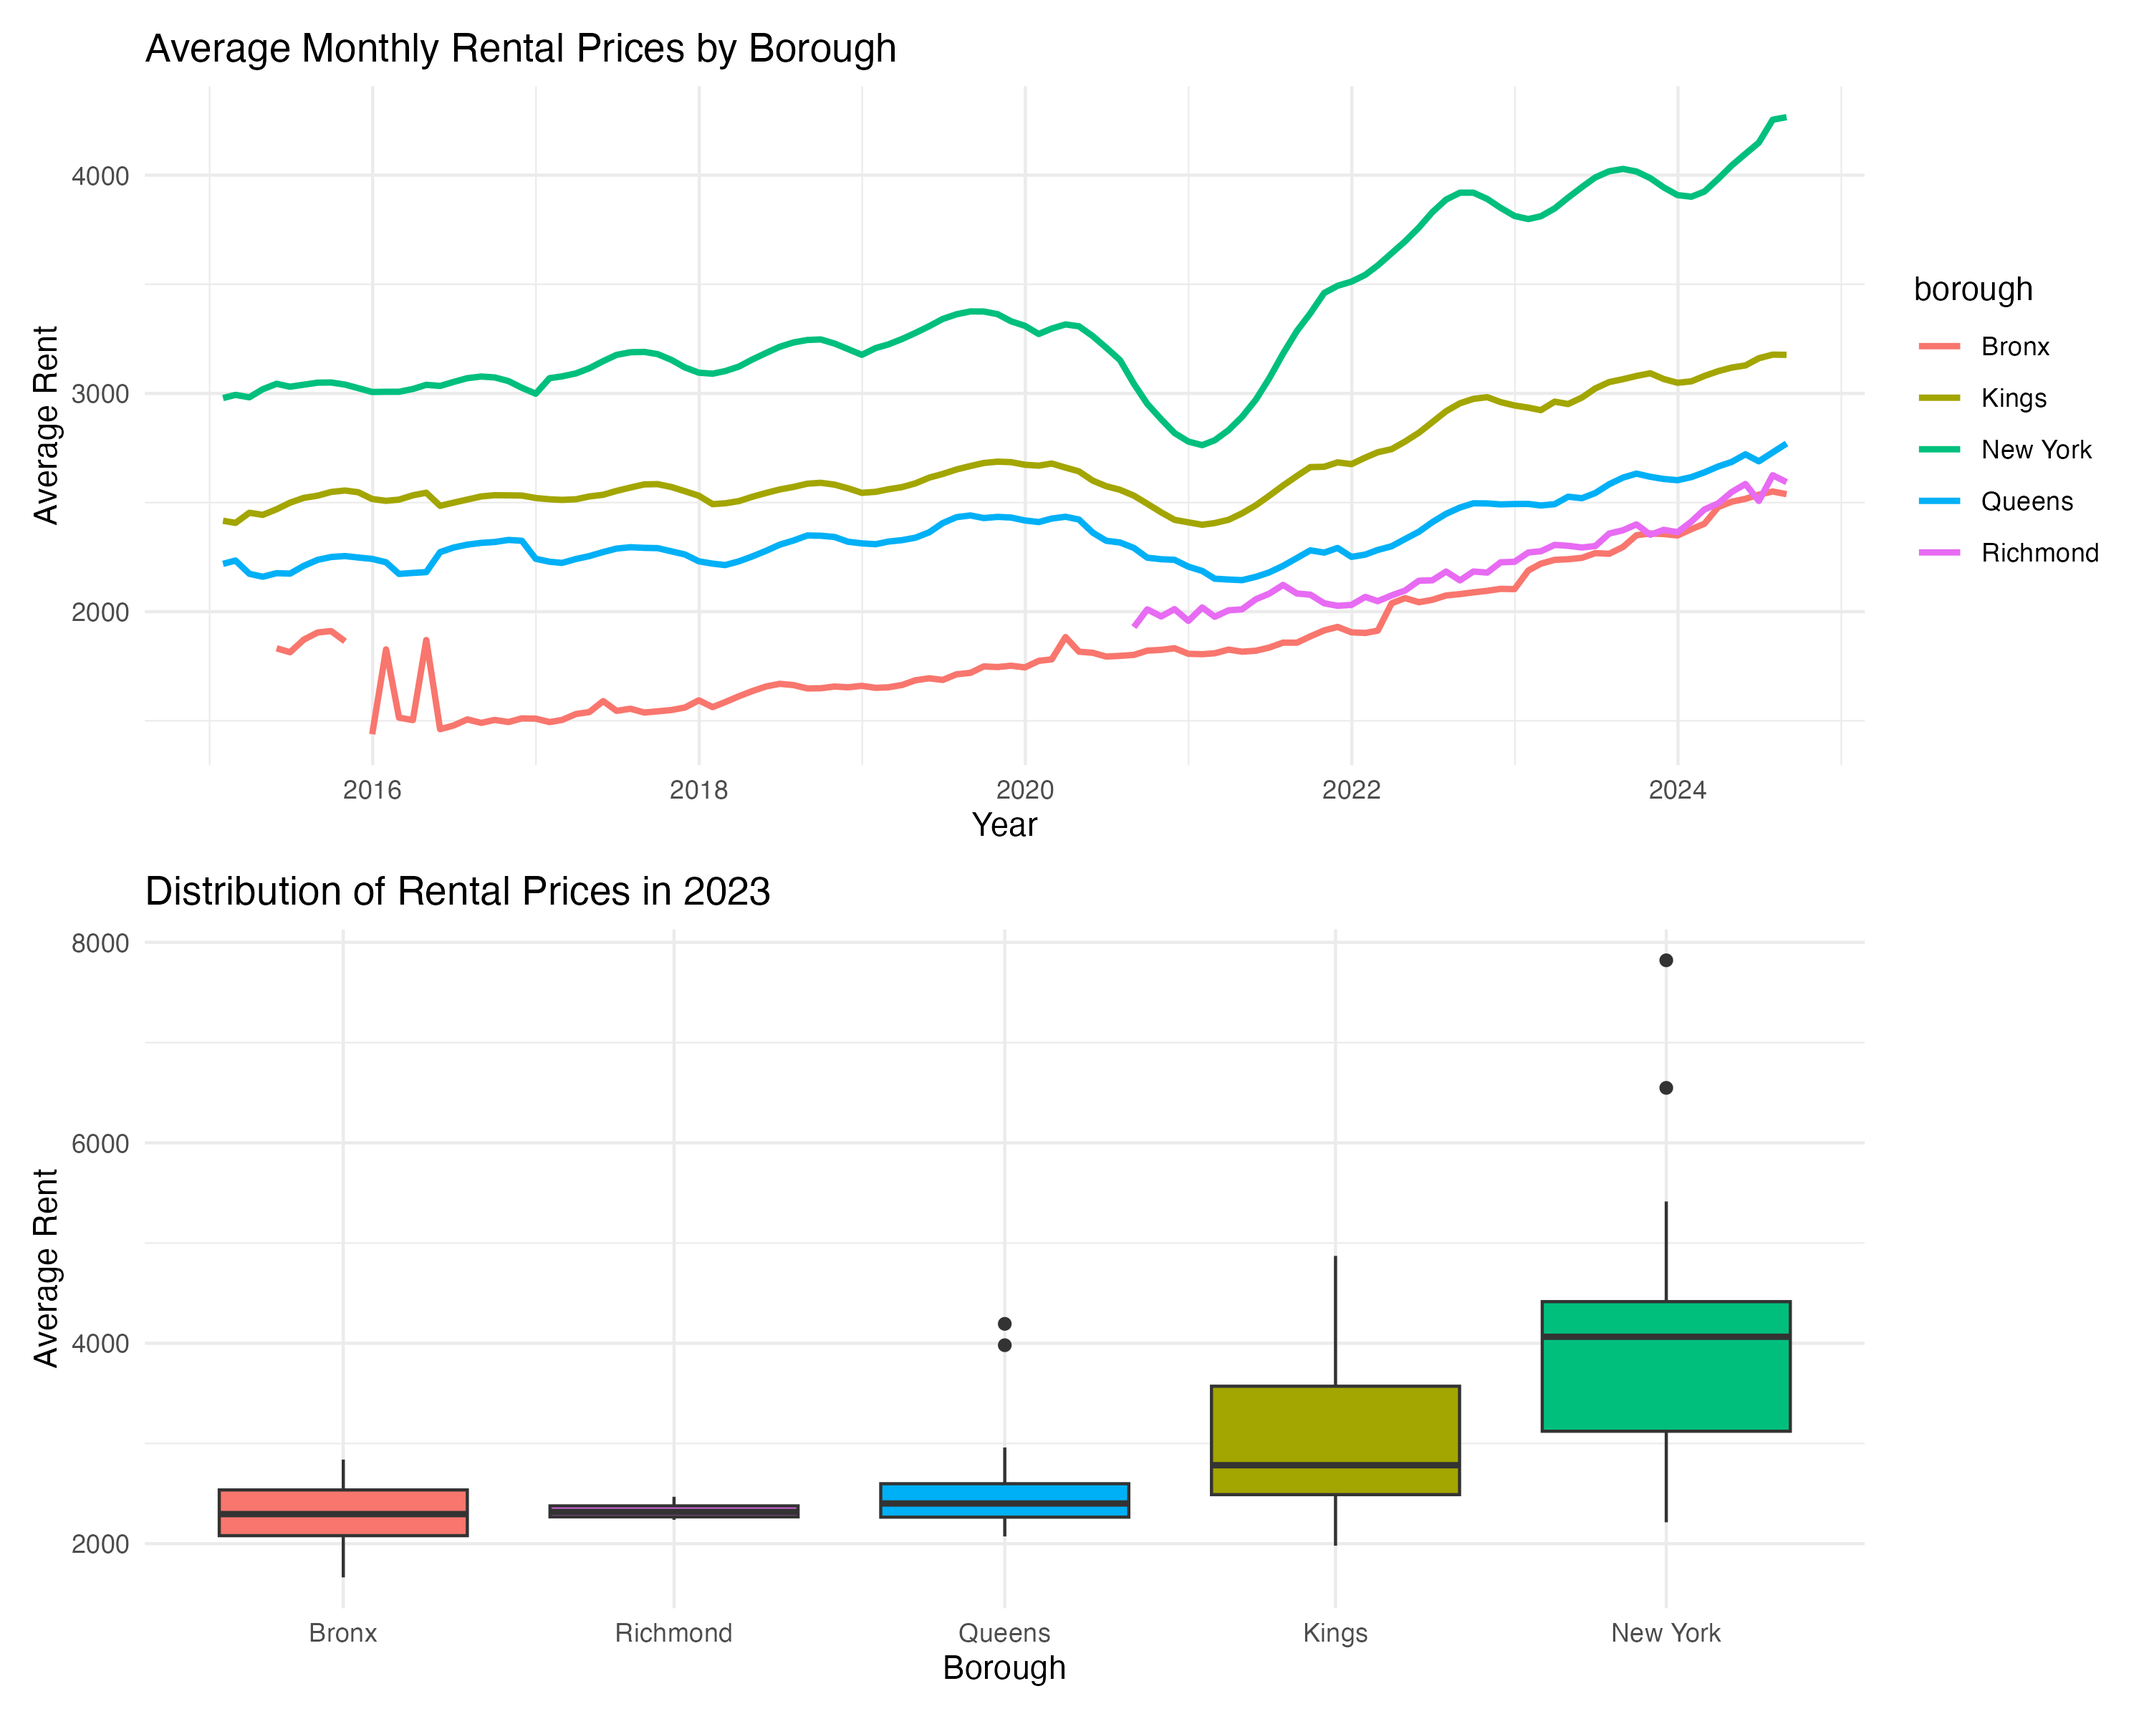
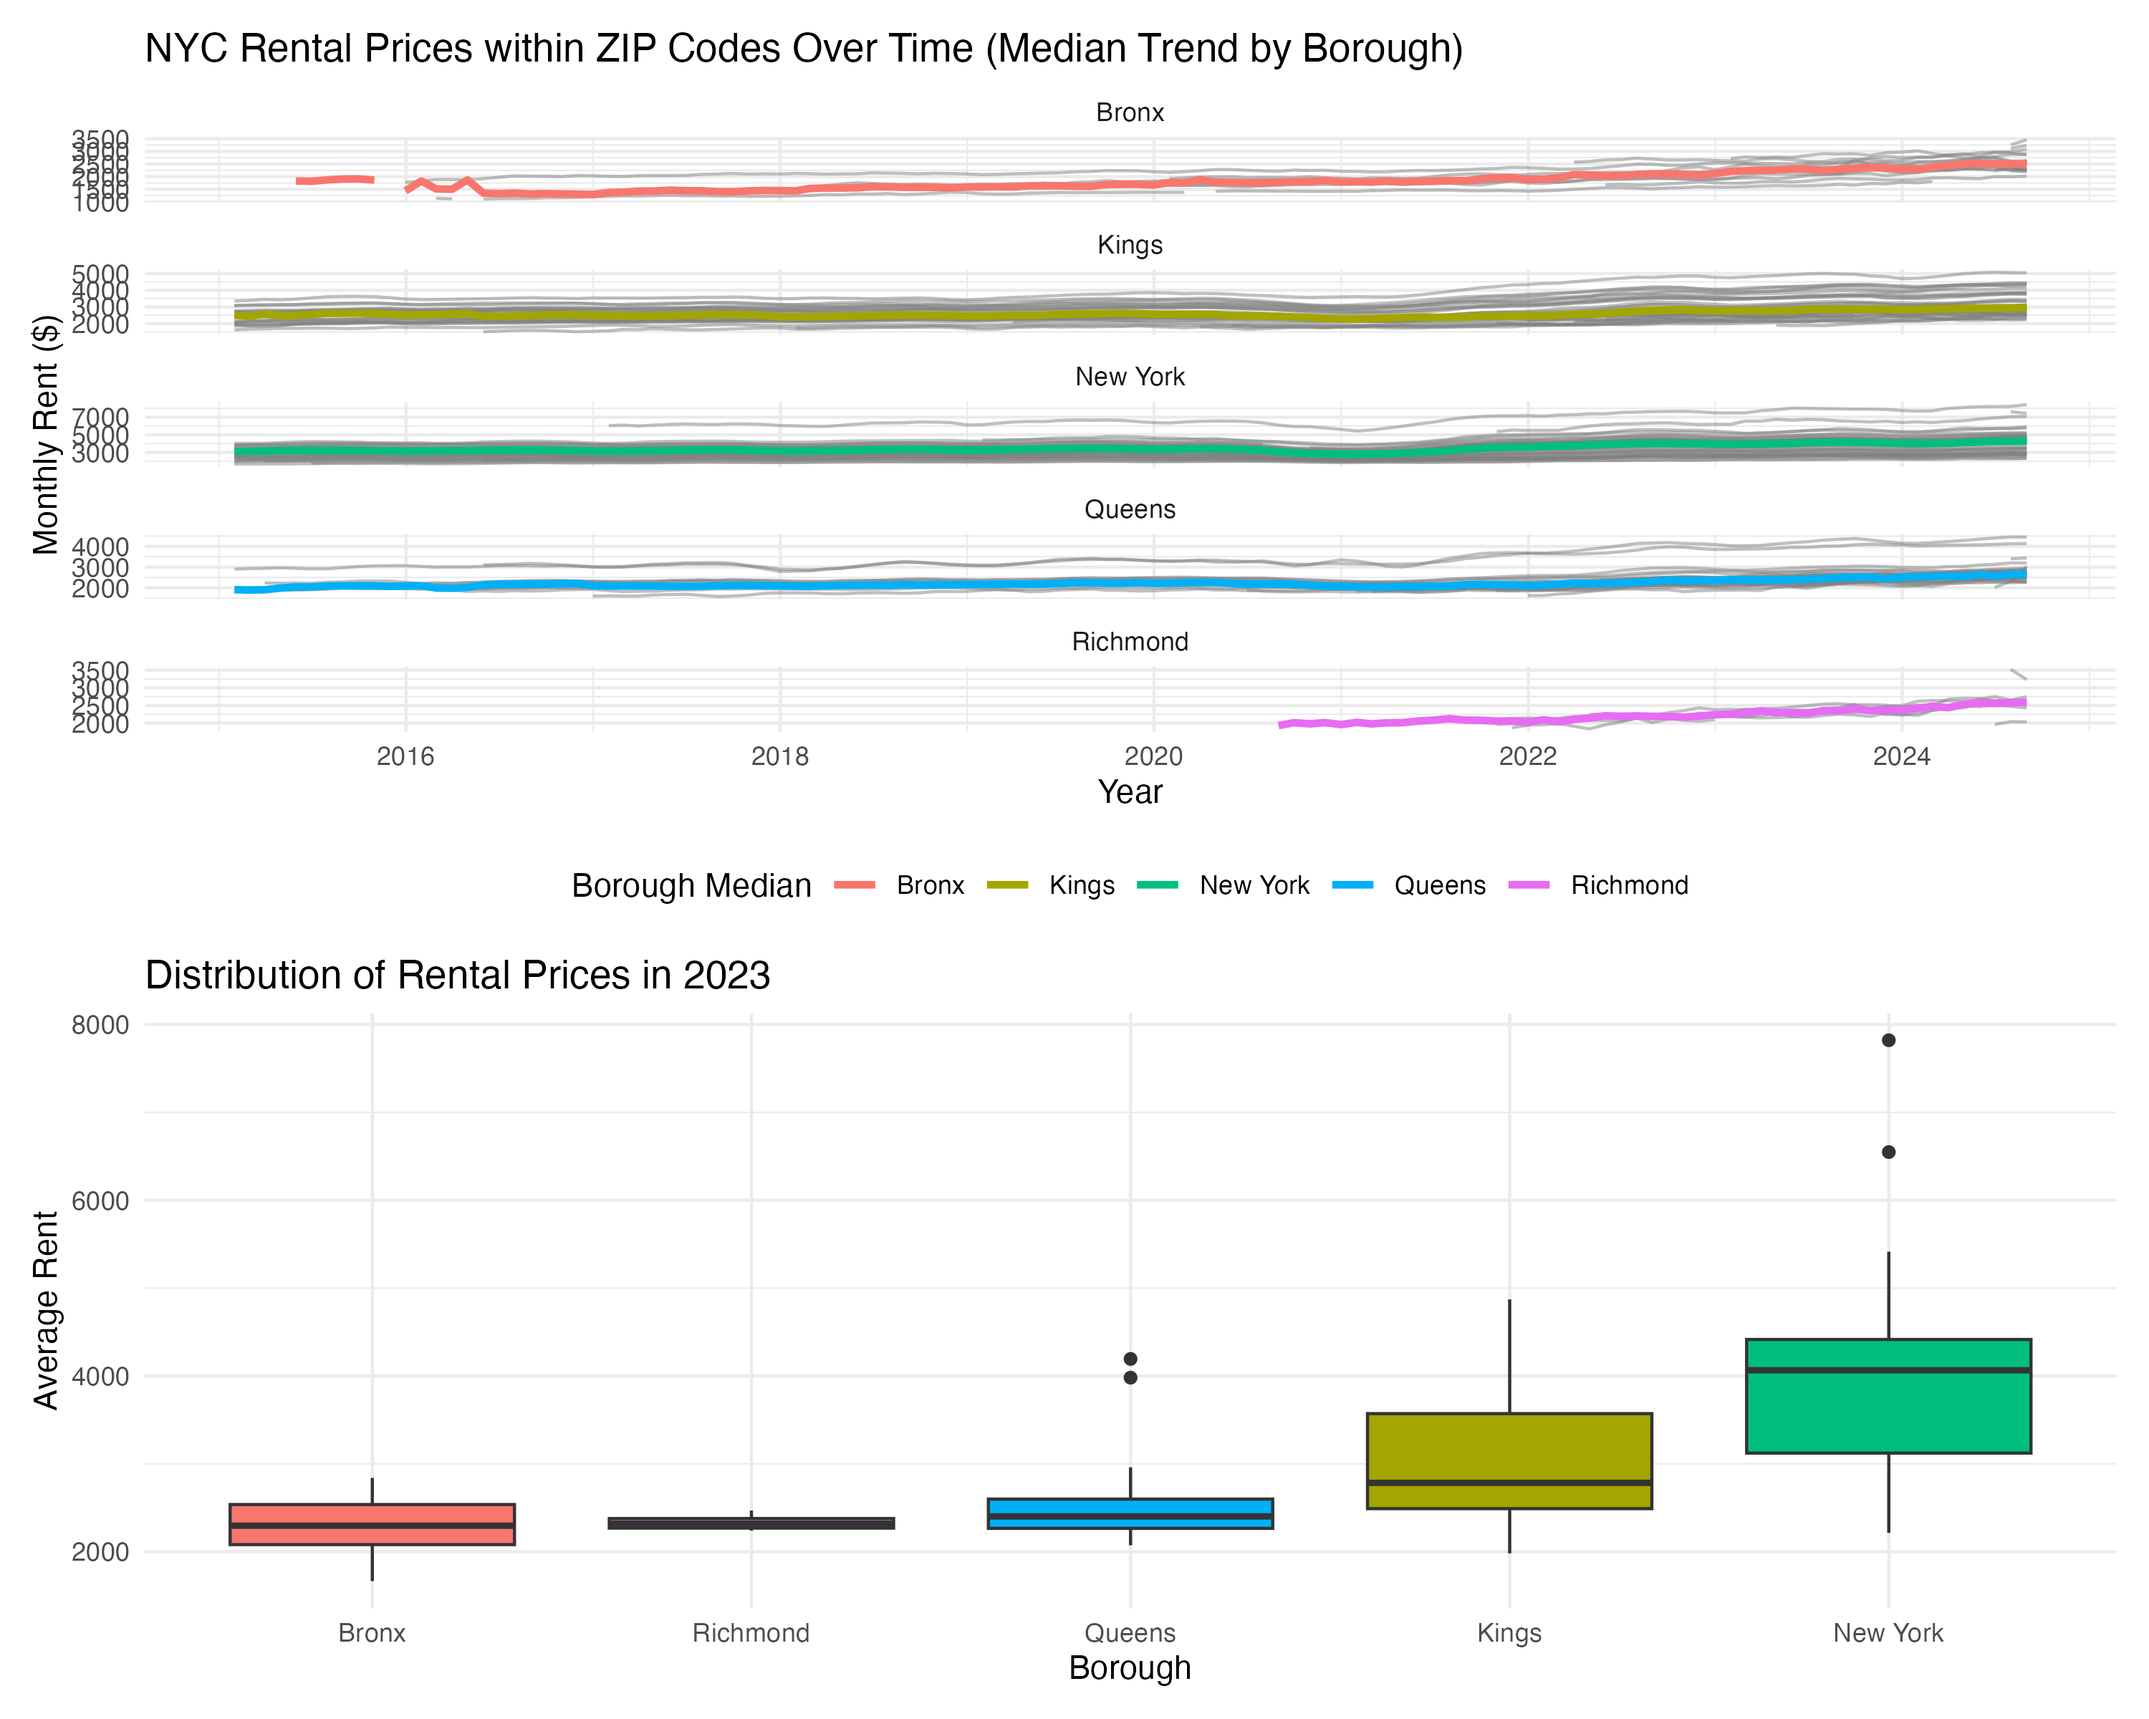
add the comment

diff --git a/p8105_hw3_xm2356.md b/p8105_hw3_xm2356.md
@@ -275,51 +275,66 @@ Beginning in 2022, the market experienced a dramatic surge in rental
 prices across all boroughs. This indicates a strong and rapid recovery,
 with rents quickly surpassing pre-pandemic levels.
 
-## NYC Rental Prices
+## NYC Rental Prices within ZIP Codes Over Time
 
 ``` r
-plot_rent_ts <- zillow_df |>
+borough_median_rent <- zillow_df |>
   group_by(borough, month) |>
-  summarise(avg_rent = mean(rent, na.rm = TRUE), .groups = "drop") |>
-  ggplot(aes(x = month, y = avg_rent, color = borough)) +
-  geom_line(linewidth = 1) +
-  labs(title = "Average Monthly Rental Prices by Borough", x = "Year", y = "Average Rent") +
-  theme_minimal()
+  summarise(
+    median_rent = median(rent, na.rm = TRUE),
+    .groups = "drop"
+  )
+
+plot_rent_ts <- zillow_df |>
+  ggplot(aes(x = month, y = rent)) + 
+  geom_line(aes(group = zip_code), alpha = 0.5, color = "grey50") + 
+  
+
+  geom_line(
+    data = borough_median_rent, 
+    aes(y = median_rent, color = borough, group = borough), 
+    linewidth = 1.2
+  ) +
+
+  facet_wrap(~ borough, scales = "free_y", ncol = 1) + 
+  
+  labs(
+    title = "NYC Rental Prices within ZIP Codes Over Time (Median Trend by Borough)", 
+    x = "Year", 
+    y = "Monthly Rent ($)",
+    color = "Borough Median" 
+  ) + 
+  theme_minimal() +
+  theme(legend.position = "bottom")
+
 plot_rent_ts
 ```
 
 ![](p8105_hw3_xm2356_files/figure-gfm/unnamed-chunk-11-1.png)<!-- -->
 
-``` r
-plot_zip_ts <- zillow_df |>
+New York (Manhattan) consistently holds the highest median rent,
+followed by Kings (Brooklyn) and Queens. Bronx and Richmond (Staten
+Island) remain the most affordable.
 
-ggplot(aes(x = month, y = rent, group = zip_code)) + 
-geom_line(alpha = 0.2, color = "grey50") +
-facet_wrap(~ borough, scales = "free_y", ncol = 1) +  
-labs(
-  title = "NYC Rental Prices within ZIP Codes Over Time", 
-  x = "Year", 
-  y = "Monthly Rent ($)"
-) + 
-theme_minimal()
+Manhattan’s Extreme Volatility and Recovery: Manhattan shows the most
+dramatic movement. The colored median line clearly captures the sharp
+decline around 2020-2021 (COVID-19 impact), followed by an extremely
+steep, V-shaped recovery that pushes the median rent above pre-pandemic
+levels by 2024.
 
-plot_zip_ts
-```
+Heterogeneity within Boroughs (The Grey Lines): The grey lines
+demonstrate the internal variability:
 
-![](p8105_hw3_xm2356_files/figure-gfm/unnamed-chunk-12-1.png)<!-- -->
+New York has the widest gap between its lowest and highest-rent ZIP
+codes, indicated by the broad spread of the grey lines above and below
+the median.
 
-A significant element is that the Bronx and Staten Island do not exhibit
-the same V-shaped pattern. Instead, their rental prices show a more
-consistent, steady increase throughout the entire period, without the
-dramatic dip seen in the other boroughs.
+Bronx and Richmond show the tightest clustering, meaning their ZIP codes
+have more uniform rental prices.
 
-Despite the mid-period volatility for some boroughs, the overall trend
-for all five is a clear increase in average rental prices from the
-beginning to the end of the time series shown.
-
-The plot reveals that the data for Staten Island (Richmond) starts later
-than the other boroughs, around 2020, indicating a shorter observation
-period for that borough in this dataset.
+The median trend lines confirm that all boroughs experienced a dip or
+stagnation during the pandemic, although the magnitude of the dip was
+far greater in Manhattan than in the other four boroughs.
 
 ## The average rental price within each ZIP code over each month in 2023
 
@@ -336,7 +351,7 @@ plot_rent_dist <- zillow_df |>
 plot_rent_dist
 ```
 
-![](p8105_hw3_xm2356_files/figure-gfm/unnamed-chunk-13-1.png)<!-- -->
+![](p8105_hw3_xm2356_files/figure-gfm/unnamed-chunk-12-1.png)<!-- -->
 
 The plot shows a distinct tiered structure in median rental prices.
 
@@ -370,7 +385,7 @@ ggsave("results/zillow_analysis.png", plot_rent_ts / plot_rent_dist, width = 10,
 
 # Problem 3
 
-tidy the data
+## Tidy the data
 
 ``` r
 nhanes_df <- 
@@ -429,7 +444,7 @@ nhanes_df |>
   theme_minimal()
 ```
 
-![](p8105_hw3_xm2356_files/figure-gfm/unnamed-chunk-17-1.png)<!-- -->
+![](p8105_hw3_xm2356_files/figure-gfm/unnamed-chunk-16-1.png)<!-- -->
 
 The figure displays the age distributions of participants by education
 level and sex.
@@ -465,7 +480,7 @@ ggplot(nhanes_df, aes(x = age, y = total_activity, color = sex)) +
   theme_minimal()
 ```
 
-![](p8105_hw3_xm2356_files/figure-gfm/unnamed-chunk-18-1.png)<!-- -->
+![](p8105_hw3_xm2356_files/figure-gfm/unnamed-chunk-17-1.png)<!-- -->
 
 The figure shows the relationship between total daily activity and age,
 stratified by education level and sex. Across all education levels,
@@ -501,7 +516,7 @@ nhanes_df |>
   theme_minimal()
 ```
 
-![](p8105_hw3_xm2356_files/figure-gfm/unnamed-chunk-19-1.png)<!-- -->
+![](p8105_hw3_xm2356_files/figure-gfm/unnamed-chunk-18-1.png)<!-- -->
 
 The figure displays the 24-hour activity patterns separated by education
 level (less than high school, high school equivalent, and more than high
